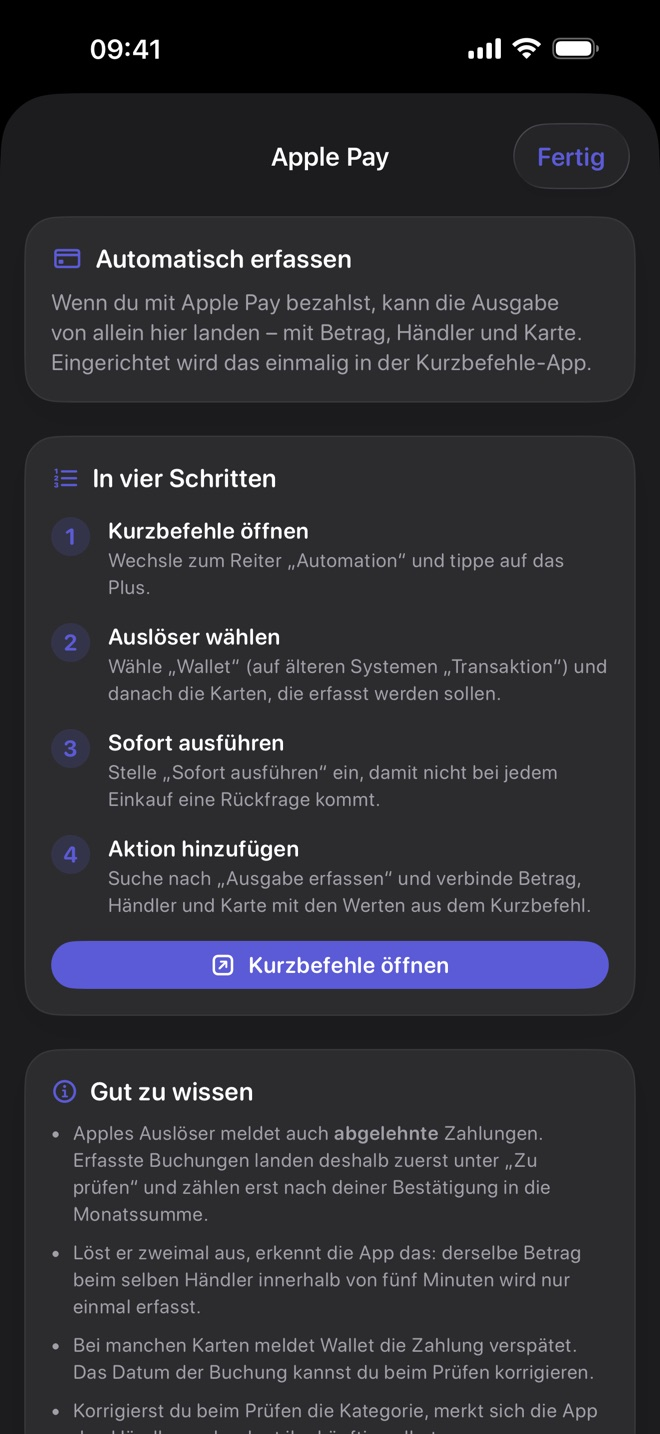
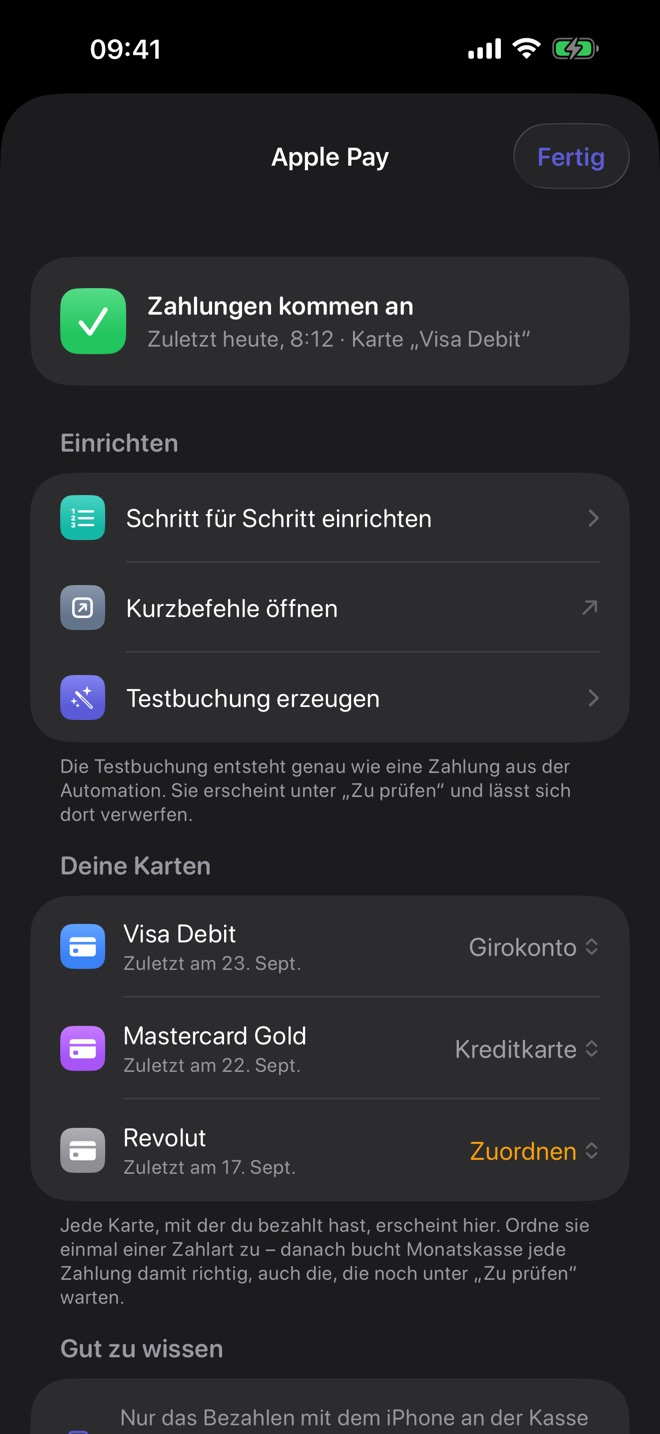
Apple Pay einrichten: Anleitung in sieben Schritten
Die Anleitung passt jetzt zu den Kurzbefehlen in iOS 26 und zeigt jeden
Schritt als Bild: Wallet als Auslöser, sofort ausführen, neuen
Kurzbefehl erstellen, Aktion einfügen und Betrag, Händler und Karte
verbinden. Dazu: Eine Automation reicht für alle Karten, jede Karte
bekommt in der App ihre Zahlart. Neue Fragen zu mehreren Karten und zu
einer Automation, die nicht auslöst. Die Datenschutzerklärung nennt die
Kartennamen, die nur auf dem Gerät bleiben.

diff --git a/index.html b/index.html
@@ -236,9 +236,40 @@
   .faq details[open] summary::after { transform: translateY(-25%) rotate(-135deg); }
   .faq details > div { padding: 0 0 20px; color: var(--muted); }
   .faq p { margin: 0 0 10px; }
-  .faq p:last-child, .faq ol:last-child { margin-bottom: 0; }
-  .faq ol { padding-left: 1.3em; margin: 0 0 10px; }
+  .faq p:last-child, .faq ol:last-child, .faq ul:last-child { margin-bottom: 0; }
+  .faq ol, .faq ul { padding-left: 1.3em; margin: 0 0 10px; }
   .faq li { margin-bottom: 6px; }
+
+  /* Apple Pay einrichten */
+  .guide { display: grid; grid-template-columns: repeat(2, minmax(0, 1fr)); gap: 16px; margin-top: 52px; counter-reset: step; }
+  .gstep { background: var(--card); border: 1px solid var(--line); border-radius: 24px; padding: 22px; box-shadow: var(--shadow); display: flex; flex-direction: column; gap: 10px; }
+  .gstep h3 { display: flex; align-items: center; gap: 10px; margin: 0; font-size: 1.1rem; line-height: 1.3; }
+  .gstep h3::before { counter-increment: step; content: counter(step); flex: none; width: 28px; height: 28px; border-radius: 50%; display: grid; place-items: center; background: var(--accent-soft); color: var(--accent-text); font-size: 0.9rem; }
+  .gstep.cards h3::before { content: "✓"; }
+  .gstep p { margin: 0; color: var(--muted); }
+  .gstep .warn { color: var(--orange); font-size: 0.95rem; }
+  .mk { --mk-panel: #f2f2f7; --mk-row: #ffffff; --mk-text: #1c1c1e; --mk-sub: #8a8a8e;
+        margin-top: 6px; background: var(--mk-panel); color: var(--mk-text); border-radius: 18px; padding: 12px; display: grid; gap: 7px; font-family: -apple-system, BlinkMacSystemFont, "Segoe UI", Roboto, sans-serif; font-size: 0.86rem; }
+  @media (prefers-color-scheme: dark) { .mk { --mk-panel: #1c1c1e; --mk-row: #2c2c2e; --mk-text: #f2f2f7; --mk-sub: #98989f; } }
+  .mk b { font-weight: 650; }
+  .mk-row { display: flex; align-items: center; gap: 9px; background: var(--mk-row); border-radius: 11px; padding: 8px 11px; }
+  .mk-row small { display: block; color: var(--mk-sub); font-size: 0.78rem; }
+  .mk-row .end { margin-left: auto; color: #0a84ff; font-weight: 600; }
+  .mk-btn { justify-self: center; background: #0a84ff; color: #fff; border-radius: 999px; padding: 6px 16px; font-weight: 600; }
+  .mk-search { background: var(--mk-row); border-radius: 999px; padding: 7px 14px; color: var(--mk-text); }
+  .mk-search::before { content: "⌕ "; color: var(--mk-sub); }
+  .mk-tabs { display: flex; justify-content: center; gap: 6px; background: var(--mk-row); border-radius: 999px; padding: 4px; }
+  .mk-tabs span { padding: 4px 12px; border-radius: 999px; font-size: 0.78rem; }
+  .mk-tabs .on { color: #0a84ff; background: rgba(10, 132, 255, 0.14); font-weight: 600; }
+  .mk-tiles { display: grid; grid-template-columns: 1fr 1fr; gap: 8px; }
+  .mk-tile { background: var(--mk-row); border-radius: 13px; padding: 10px; min-height: 58px; font-size: 0.8rem; font-weight: 600; position: relative; }
+  .mk-tile.no { opacity: 0.6; }
+  .mk-tile.no::after { content: "✕"; position: absolute; top: -7px; right: -7px; width: 20px; height: 20px; border-radius: 50%; background: #ef4444; color: #fff; display: grid; place-items: center; font-size: 0.7rem; }
+  .mk-var { display: inline-block; background: #0a84ff; color: #fff; border-radius: 6px; padding: 0 6px; font-weight: 600; }
+  .mk-app { display: inline-grid; place-items: center; width: 22px; height: 22px; border-radius: 6px; background: #f8c94a; color: #8a5a12; font-size: 0.8rem; flex: none; }
+  .mk-sentence { background: var(--mk-row); border-radius: 11px; padding: 9px 11px; line-height: 1.9; }
+  .hint { outline: 2px solid var(--accent); outline-offset: 2px; }
+  @media (max-width: 920px) { .guide { grid-template-columns: 1fr; } }
 
   /* Kontakt */
   .kontakt { padding-top: 0; }
@@ -374,16 +405,16 @@
       <div class="copy">
         <p class="kicker"><svg class="i" aria-hidden="true"><use href="#i-bolt"/></svg>Automatisch</p>
         <h3>Apple Pay trägt sich selbst ein</h3>
-        <p>Richte einmal eine Automation in der Kurzbefehle-App ein. Danach landen Zahlungen mit Apple Pay von selbst in Monatskasse – mit Betrag, Händler und Karte.</p>
+        <p>Richte einmal eine Automation in der Kurzbefehle-App ein – eine für alle Karten. Danach landen Zahlungen mit Apple Pay von selbst in Monatskasse, mit Betrag, Händler und Karte.</p>
         <ul class="checks">
-          <li><svg class="i" aria-hidden="true"><use href="#i-check"/></svg><span>Die App führt dich Schritt für Schritt durch die Einrichtung</span></li>
+          <li><svg class="i" aria-hidden="true"><use href="#i-check"/></svg><span>Die App führt dich Schritt für Schritt durch die Einrichtung – <a href="#apple-pay">die Anleitung steht auch hier</a></span></li>
+          <li><svg class="i" aria-hidden="true"><use href="#i-check"/></svg><span>Jede Karte bekommt ihre Zahlart: einmal zugeordnet, immer richtig gebucht</span></li>
           <li><svg class="i" aria-hidden="true"><use href="#i-check"/></svg><span>Zur Sicherheit erst unter „Zu prüfen“, denn iOS meldet auch abgelehnte Zahlungen</span></li>
-          <li><svg class="i" aria-hidden="true"><use href="#i-check"/></svg><span>Ein Tipp bestätigt – beim nächsten Einkauf im selben Geschäft stimmen Kategorie und Zahlart von selbst</span></li>
         </ul>
       </div>
       <figure class="media">
         <img class="shot" src="bilder/apple-pay.jpg" width="660" height="1434" loading="lazy" decoding="async"
-             alt="Anleitung in Monatskasse: Zahlungen mit Apple Pay in vier Schritten automatisch erfassen.">
+             alt="Apple Pay in Monatskasse: Zahlungen kommen an, dazu deine Karten mit ihren Zahlarten.">
       </figure>
     </article>
 
@@ -523,6 +554,92 @@
   </div>
 </section>
 
+<section class="alt" id="apple-pay">
+  <div class="wrap">
+    <div class="section-head">
+      <h2>Apple Pay einrichten</h2>
+      <p>Einmalig, in der Kurzbefehle-App, in sieben Schritten. Auf dem iPhone führt dich Monatskasse unter <em>Verwalten → Apple Pay automatisch erfassen</em> durch dieselben Schritte.</p>
+    </div>
+
+    <div class="guide">
+      <div class="gstep">
+        <h3>Kurzbefehle öffnen</h3>
+        <p>Öffne die App „Kurzbefehle“ und tippe unten auf „Automation“. Dann auf „Neue Automation“ – hast du schon Automationen, oben rechts auf ＋.</p>
+        <div class="mk" aria-hidden="true">
+          <b>Automation</b>
+          <span class="mk-btn hint">Neue Automation</span>
+          <div class="mk-tabs"><span>Mediathek</span><span class="on hint">Automation</span><span>Galerie</span></div>
+        </div>
+      </div>
+
+      <div class="gstep">
+        <h3>„Wallet“ wählen</h3>
+        <p>Tippe unten ins Suchfeld, gib „Wallet“ ein und wähle den Eintrag „Wallet“.</p>
+        <div class="mk" aria-hidden="true">
+          <b>Persönliche Automation</b>
+          <div class="mk-row hint"><span><b>Wallet</b><small>„Wenn ich eine Wallet-Karte verwende“</small></span></div>
+          <div class="mk-search">Wallet</div>
+        </div>
+      </div>
+
+      <div class="gstep">
+        <h3>Karten und Ausführung</h3>
+        <p>Wähle alle Karten aus, mit denen du bezahlst. Stelle „Sofort ausführen“ ein und lass „Bei Ausführung benachrichtigen“ aus. Tippe dann oben rechts auf „Weiter“.</p>
+        <div class="mk" aria-hidden="true">
+          <b>Wenn ich Folgendes auswähle</b>
+          <div class="mk-row">Visa Debit<span class="end">✓</span></div>
+          <div class="mk-row">Mastercard<span class="end">✓</span></div>
+          <div class="mk-row hint">Sofort ausführen<span class="end">✓</span></div>
+        </div>
+      </div>
+
+      <div class="gstep">
+        <h3>Neuen Kurzbefehl erstellen</h3>
+        <p>Tippe unter „Los gehts“ auf „Neuen Kurzbefehl erstellen“.</p>
+        <p class="warn">Nicht direkt auf „Ausgabe erfassen“ tippen: Dann legt iOS die Automation ohne verbundene Felder an, und sie kann den Betrag nicht übernehmen.</p>
+        <div class="mk" aria-hidden="true">
+          <b>Los gehts</b>
+          <div class="mk-tiles"><div class="mk-tile hint">Neuen Kurzbefehl erstellen</div><div class="mk-tile no">Ausgabe erfassen</div></div>
+        </div>
+      </div>
+
+      <div class="gstep">
+        <h3>Aktion einfügen</h3>
+        <p>Tippe unten auf „Aktionen suchen“, gib „Ausgabe erfassen“ ein und tippe auf die Aktion von Monatskasse.</p>
+        <div class="mk" aria-hidden="true">
+          <div class="mk-search">Ausgabe erfassen</div>
+          <div class="mk-row hint"><span class="mk-app">€</span>Ausgabe erfassen</div>
+        </div>
+      </div>
+
+      <div class="gstep">
+        <h3>Felder verbinden</h3>
+        <p>Tippe in der Aktion auf das blaue „Betrag“ und dann auf „Kurzbefehleingabe“. Tippe das blaue „Kurzbefehleingabe“ noch einmal an und wähle „Betrag“. Genauso verbindest du „Händler“ mit „Händlername“ und „Karte“ mit „Karte“.</p>
+        <div class="mk" aria-hidden="true">
+          <div class="mk-sentence"><span class="mk-app">€</span> Ausgabe über <span class="mk-var">Betrag</span> bei <span class="mk-var">Händlername</span> mit <span class="mk-var">Karte</span> erfassen</div>
+        </div>
+      </div>
+
+      <div class="gstep">
+        <h3>Fertig</h3>
+        <p>Tippe oben rechts auf ✓. Bezahlst du das nächste Mal mit dem iPhone an der Kasse, erscheint die Zahlung in Monatskasse unter „Zu prüfen“.</p>
+        <div class="mk" aria-hidden="true">
+          <div class="mk-row"><span><b>1 Zahlung zu prüfen</b><small>Migros · 23,40 €</small></span></div>
+        </div>
+      </div>
+
+      <div class="gstep cards">
+        <h3>Karten zuordnen</h3>
+        <p>Jede Karte, mit der du bezahlt hast, erscheint in Monatskasse unter „Deine Karten“. Wähle einmal die Zahlart – danach bucht die App jede Zahlung mit dieser Karte richtig.</p>
+        <div class="mk" aria-hidden="true">
+          <div class="mk-row">Visa Debit<span class="end">Girokonto</span></div>
+          <div class="mk-row">Revolut<span class="end" style="color: #f59e0b">Zuordnen</span></div>
+        </div>
+      </div>
+    </div>
+  </div>
+</section>
+
 <section id="hilfe">
   <div class="wrap">
     <div class="section-head">
@@ -542,13 +659,28 @@
       <details>
         <summary>Wie werden Zahlungen mit Apple Pay automatisch erfasst?</summary>
         <div>
-          <p>Das richtest du einmal in der Kurzbefehle-App ein. In Monatskasse führt dich <em>Verwalten → Apple Pay automatisch erfassen</em> durch die Schritte:</p>
-          <ol>
-            <li>Öffne die Kurzbefehle-App, wechsle zu „Automation“ und tippe auf das Plus.</li>
-            <li>Wähle „Wallet“ (auf älteren Systemen „Transaktion“) und die Karten, die erfasst werden sollen.</li>
-            <li>Stelle „Sofort ausführen“ ein, damit nicht bei jedem Einkauf eine Rückfrage kommt.</li>
-            <li>Füge die Aktion „Ausgabe erfassen“ hinzu und verbinde Betrag, Händler und Karte mit den Werten aus dem Kurzbefehl.</li>
-          </ol>
+          <p>Mit einer Automation, die du einmal in der Kurzbefehle-App anlegst. Die Schritte stehen oben unter <a href="#apple-pay">Apple Pay einrichten</a>; in der App führt dich <em>Verwalten → Apple Pay automatisch erfassen</em> durch dieselben Schritte.</p>
+          <p>Wichtig ist Schritt 4: „Neuen Kurzbefehl erstellen“ wählen und nicht direkt „Ausgabe erfassen“ – sonst fehlen die verbundenen Felder.</p>
+        </div>
+      </details>
+
+      <details>
+        <summary>Ich habe mehrere Karten – wie ordne ich sie zu?</summary>
+        <div>
+          <p>Eine Automation reicht für alle Karten. Verbinde in der Aktion auch das Feld „Karte“. Jede Karte, mit der du bezahlst, erscheint danach unter <em>Verwalten → Apple Pay automatisch erfassen → Deine Karten</em>. Dort wählst du einmal die Zahlart, und Monatskasse bucht jede Zahlung mit dieser Karte richtig – auch die, die noch unter „Zu prüfen“ warten.</p>
+          <p>Eine neue Karte kannst du auch direkt unter „Zu prüfen“ zuordnen.</p>
+        </div>
+      </details>
+
+      <details>
+        <summary>Die Automation löst nicht aus – was kann ich tun?</summary>
+        <div>
+          <ul>
+            <li>Nur das Bezahlen mit dem iPhone an der Kasse löst die Automation aus – nicht die Apple Watch und keine Online-Käufe.</li>
+            <li>Prüfe, ob in der Automation „Sofort ausführen“ gewählt ist.</li>
+            <li>Wallet braucht mobile Daten: iOS-Einstellungen → „Mobilfunk“ → „Wallet“ einschalten.</li>
+            <li>In Monatskasse zeigt <em>Verwalten → Apple Pay automatisch erfassen</em> oben, wann zuletzt eine Zahlung ankam und ob Händler und Karte dabei waren.</li>
+          </ul>
         </div>
       </details>
 

diff --git a/datenschutz.html b/datenschutz.html
@@ -90,14 +90,14 @@
 <p>Erinnerungen, etwa vor großen Fixkosten oder beim Erreichen deines Budgets, werden auf deinem Gerät geplant und angezeigt. Dafür werden keine Daten an uns übertragen.</p>
 
 <h2>7. Siri, Kurzbefehle und automatische Erfassung</h2>
-<p>Über Siri und die Kurzbefehle-App kannst du Ausgaben erfassen oder deinen Monatsstand abfragen. Richtest du eine Automation für Zahlungen ein, übergibt die Kurzbefehle-App Betrag, Händler und Kartenname an Monatskasse, und die App legt daraus eine Buchung auf deinem Gerät an. Für die Verarbeitung durch Siri gilt die Datenschutzrichtlinie von Apple.</p>
+<p>Über Siri und die Kurzbefehle-App kannst du Ausgaben erfassen oder deinen Monatsstand abfragen. Richtest du eine Automation für Zahlungen ein, übergibt die Kurzbefehle-App Betrag, Händler und Kartenname an Monatskasse, und die App legt daraus eine Buchung auf deinem Gerät an. Die Namen der Karten, mit denen du bezahlt hast, merkt sich die App nur auf diesem Gerät, damit du jede Karte einer Zahlart zuordnen kannst. Die Zuordnung gehört zur Zahlart und wird wie diese gespeichert und abgeglichen. Für die Verarbeitung durch Siri gilt die Datenschutzrichtlinie von Apple.</p>
 
 <h2>8. Widgets</h2>
 <p>Damit Widgets deinen Monatsstand zeigen können, legt die App eine kleine Zusammenfassung – Monatssumme, Budget und die größten Kategorien – in einem Bereich auf deinem Gerät ab, auf den nur Monatskasse zugreifen kann. Diese Zusammenfassung verlässt dein Gerät nicht. Bitte beachte: Widgets auf dem Home-Bildschirm kann jeder sehen, der dein entsperrtes Gerät in der Hand hat.</p>
 
 <h2>9. Export, Sicherung und Diagnosebericht</h2>
 <p>Tabellen, Sicherungen und Diagnoseberichte entstehen nur, wenn du sie anforderst. Du gibst sie über das Teilen-Menü von iOS weiter und entscheidest selbst, wohin.</p>
-<p>Der Diagnosebericht enthält technische Angaben – App- und iOS-Version, Gerätemodell, Sync-Status, die Anzahl deiner Einträge und technische Protokollzeilen der App –, aber keine Inhalte deiner Buchungen wie Titel, Beträge, Händler oder Notizen. Schickst du uns einen Diagnosebericht, verwenden wir ihn nur, um dein Anliegen zu klären, und löschen ihn danach.</p>
+<p>Der Diagnosebericht enthält technische Angaben – App- und iOS-Version, Gerätemodell, Sync-Status, die Anzahl deiner Einträge, wann die Zahlungs-Automation zuletzt lief, und technische Protokollzeilen der App –, aber keine Inhalte deiner Buchungen wie Titel, Beträge, Händler, Kartennamen oder Notizen. Schickst du uns einen Diagnosebericht, verwenden wir ihn nur, um dein Anliegen zu klären, und löschen ihn danach.</p>
 
 <h2>10. Absturzberichte</h2>
 <p>Hast du in den iOS-Einstellungen unter „Datenschutz &amp; Sicherheit“ → „Analyse &amp; Verbesserungen“ die Option „Mit App-Entwicklern teilen“ aktiviert, stellt Apple uns anonymisierte Absturz- und Leistungsdaten zur Verfügung. Sie enthalten keine Inhalte deiner Einträge. Du kannst diese Option jederzeit ausschalten.</p>
